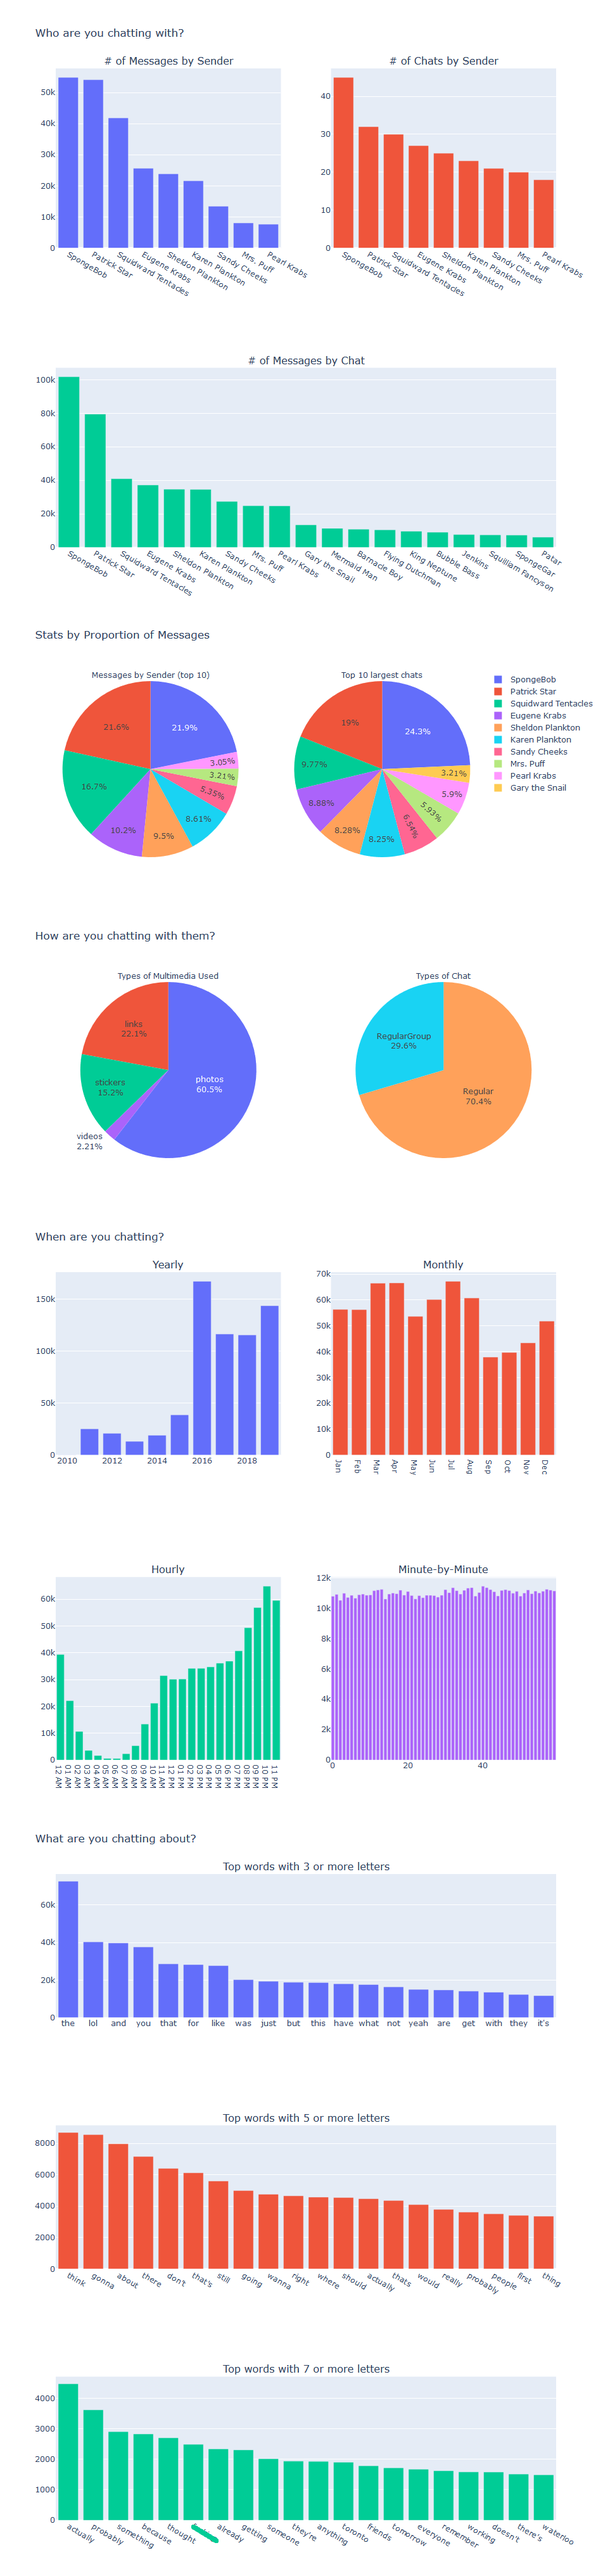
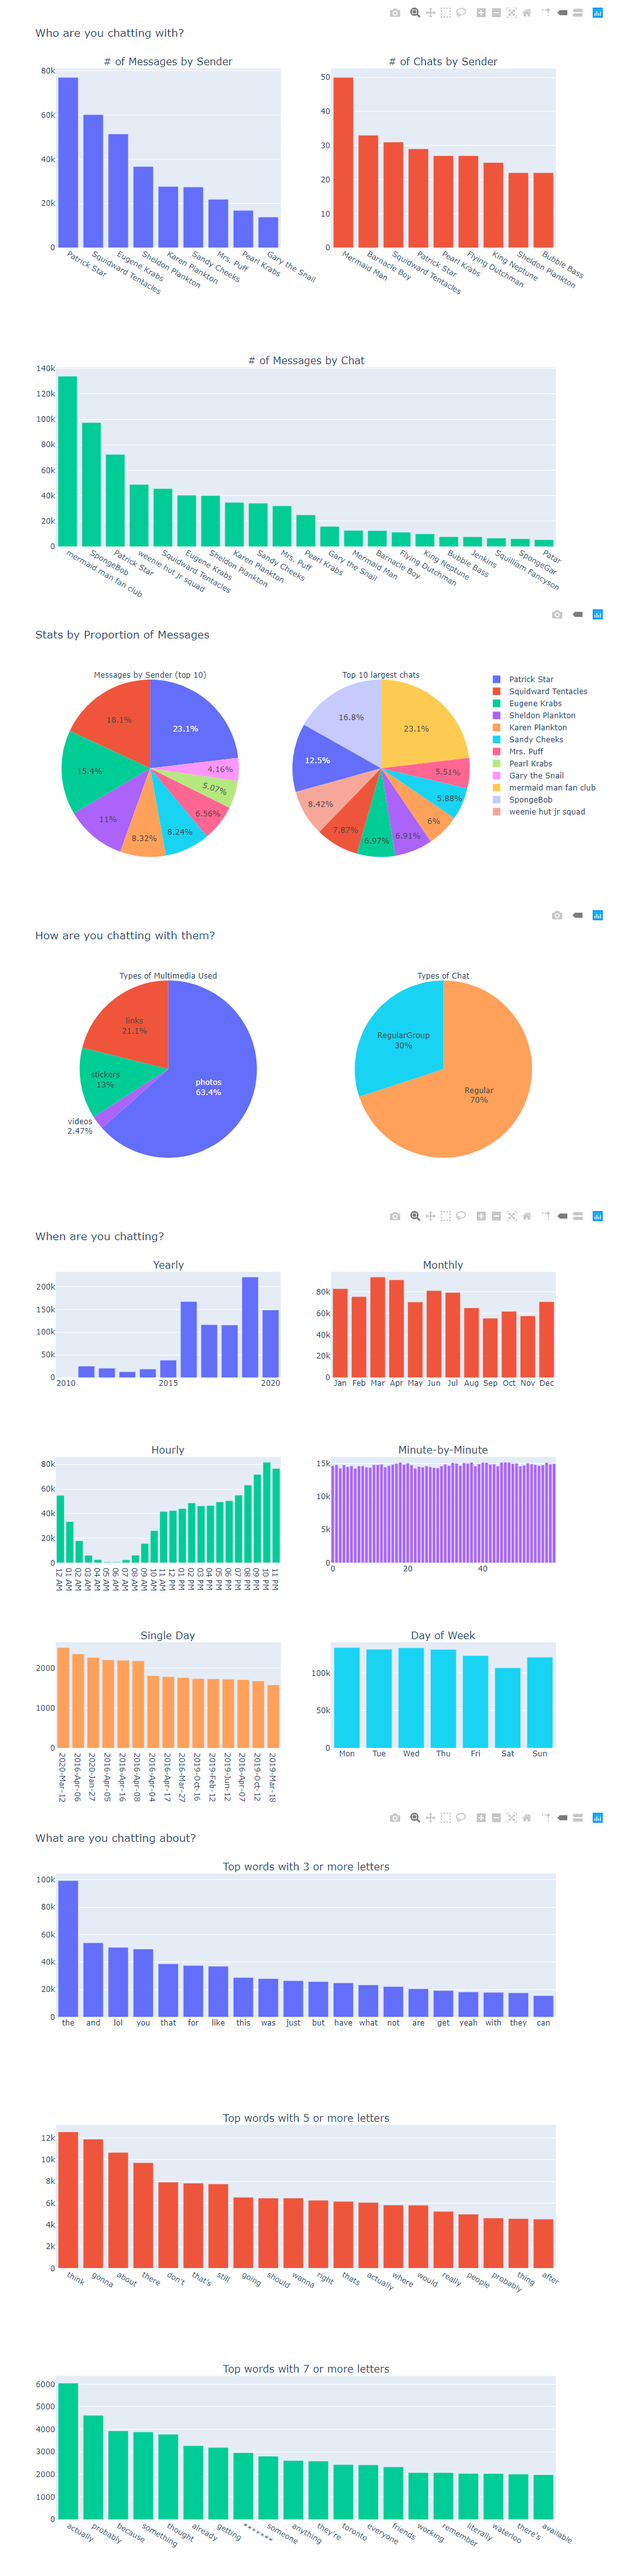
largest single day and day of week stat

diff --git a/chatstat.py b/chatstat.py
@@ -22,7 +22,7 @@ def show_or_return(graph_func):
 
 class ChatStat:
     """
-    container for chat and messages dataframe with functions
+    container for chat and messages dataframe with methods
     to generate statistics
 
     Parameters
@@ -98,7 +98,7 @@ class ChatStat:
         top: int, default=10
             limits the plot to `top` number of chats
         omit_first: bool, default=False
-            toggle to omit the first largest chat, which is typically the user
+            toggle to omit the first largest sender, which is typically the user
         kind: str in {'pie', 'bar'}
             kind of chart to plot, pie or bar
         show: bool, default=True
@@ -424,7 +424,7 @@ class ChatStat:
 
 
         when = make_subplots(rows=3, cols=2, specs=[[{"type": "bar"}] * 2] * 3,
-                             subplot_titles=['Yearly', 'Monthly', 'Hourly', 'Minute-by-Minute', "Daily", "Day of Week"])
+                             subplot_titles=['Yearly', 'Monthly', 'Hourly', 'Minute-by-Minute', "Single Day", "Day of Week"])
         when.add_trace(yearly_graph, row=1, col=1)
         when.add_trace(monthly_graph, row=1, col=2)
         when.add_trace(hourly_graph, row=2, col=1)
@@ -433,7 +433,7 @@ class ChatStat:
         when.add_trace(weekday_graph, row=3, col=2)
 
         when.update_layout(height=1425, width=950, title_text="Time-based Metrics", showlegend=False)
-        graphs = [yearly_graph, monthly_graph, hourly_graph, minutely_graph]
+        graphs = [yearly_graph, monthly_graph, hourly_graph, minutely_graph, daily_graph, weekday_graph]
         return when, graphs
 
     @show_or_return
@@ -520,6 +520,29 @@ class ChatStat:
         fig = go.Figure(graph)
         fig.update_layout(title_text=f"Number of chats by person (Top {top})")
         return fig, graph
+    
+    def chat_window(self, thread, start, end):
+        """
+        Generates a JSON file for a chat between two timestamps
+
+        Parameters
+        ----------
+        thread: str
+            the unique thread_path for the chat
+        start: int
+            filter for messages after this timestamp
+        end: int
+            filter for messages before this timestamp
+
+        Returns
+        -------
+        None
+
+        Side Effect
+        -----------
+        Generates a JSON file that can be used with chat_display.html
+        """
+        # stub for something upcoming (possibly)
 
 
 if __name__ == "__main__":

diff --git a/generate_report.py b/generate_report.py
@@ -48,15 +48,17 @@ if __name__ == "__main__":
     html += po.plot(how, output_type='div')
 
     # when are you chatting?
-    yearly_graph, monthly_graph, hourly_graph, minutely_graph = cs.time_stats(show=False)
+    yearly_graph, monthly_graph, hourly_graph, minutely_graph, daily_graph, weekday_graph = cs.time_stats(show=False)
     when = make_subplots(
-        rows=2, cols=2, specs=[[{"type": "bar"}] * 2] * 2,
-        subplot_titles=['Yearly', 'Monthly', 'Hourly', 'Minute-by-Minute']
+        rows=3, cols=2, specs=[[{"type": "bar"}] * 2] * 3,
+        subplot_titles=['Yearly', 'Monthly', 'Hourly', 'Minute-by-Minute', 'Single Day', 'Day of Week']
     )
     when.add_trace(yearly_graph, row=1, col=1)
     when.add_trace(monthly_graph, row=1, col=2)
     when.add_trace(hourly_graph, row=2, col=1)
     when.add_trace(minutely_graph, row=2, col=2)
+    when.add_trace(daily_graph, row=3, col=1)
+    when.add_trace(weekday_graph, row=3, col=2)
     when.update_layout(height=950, width=950, title_text="When are you chatting?", showlegend=False)
     html += po.plot(when, output_type='div')
 
